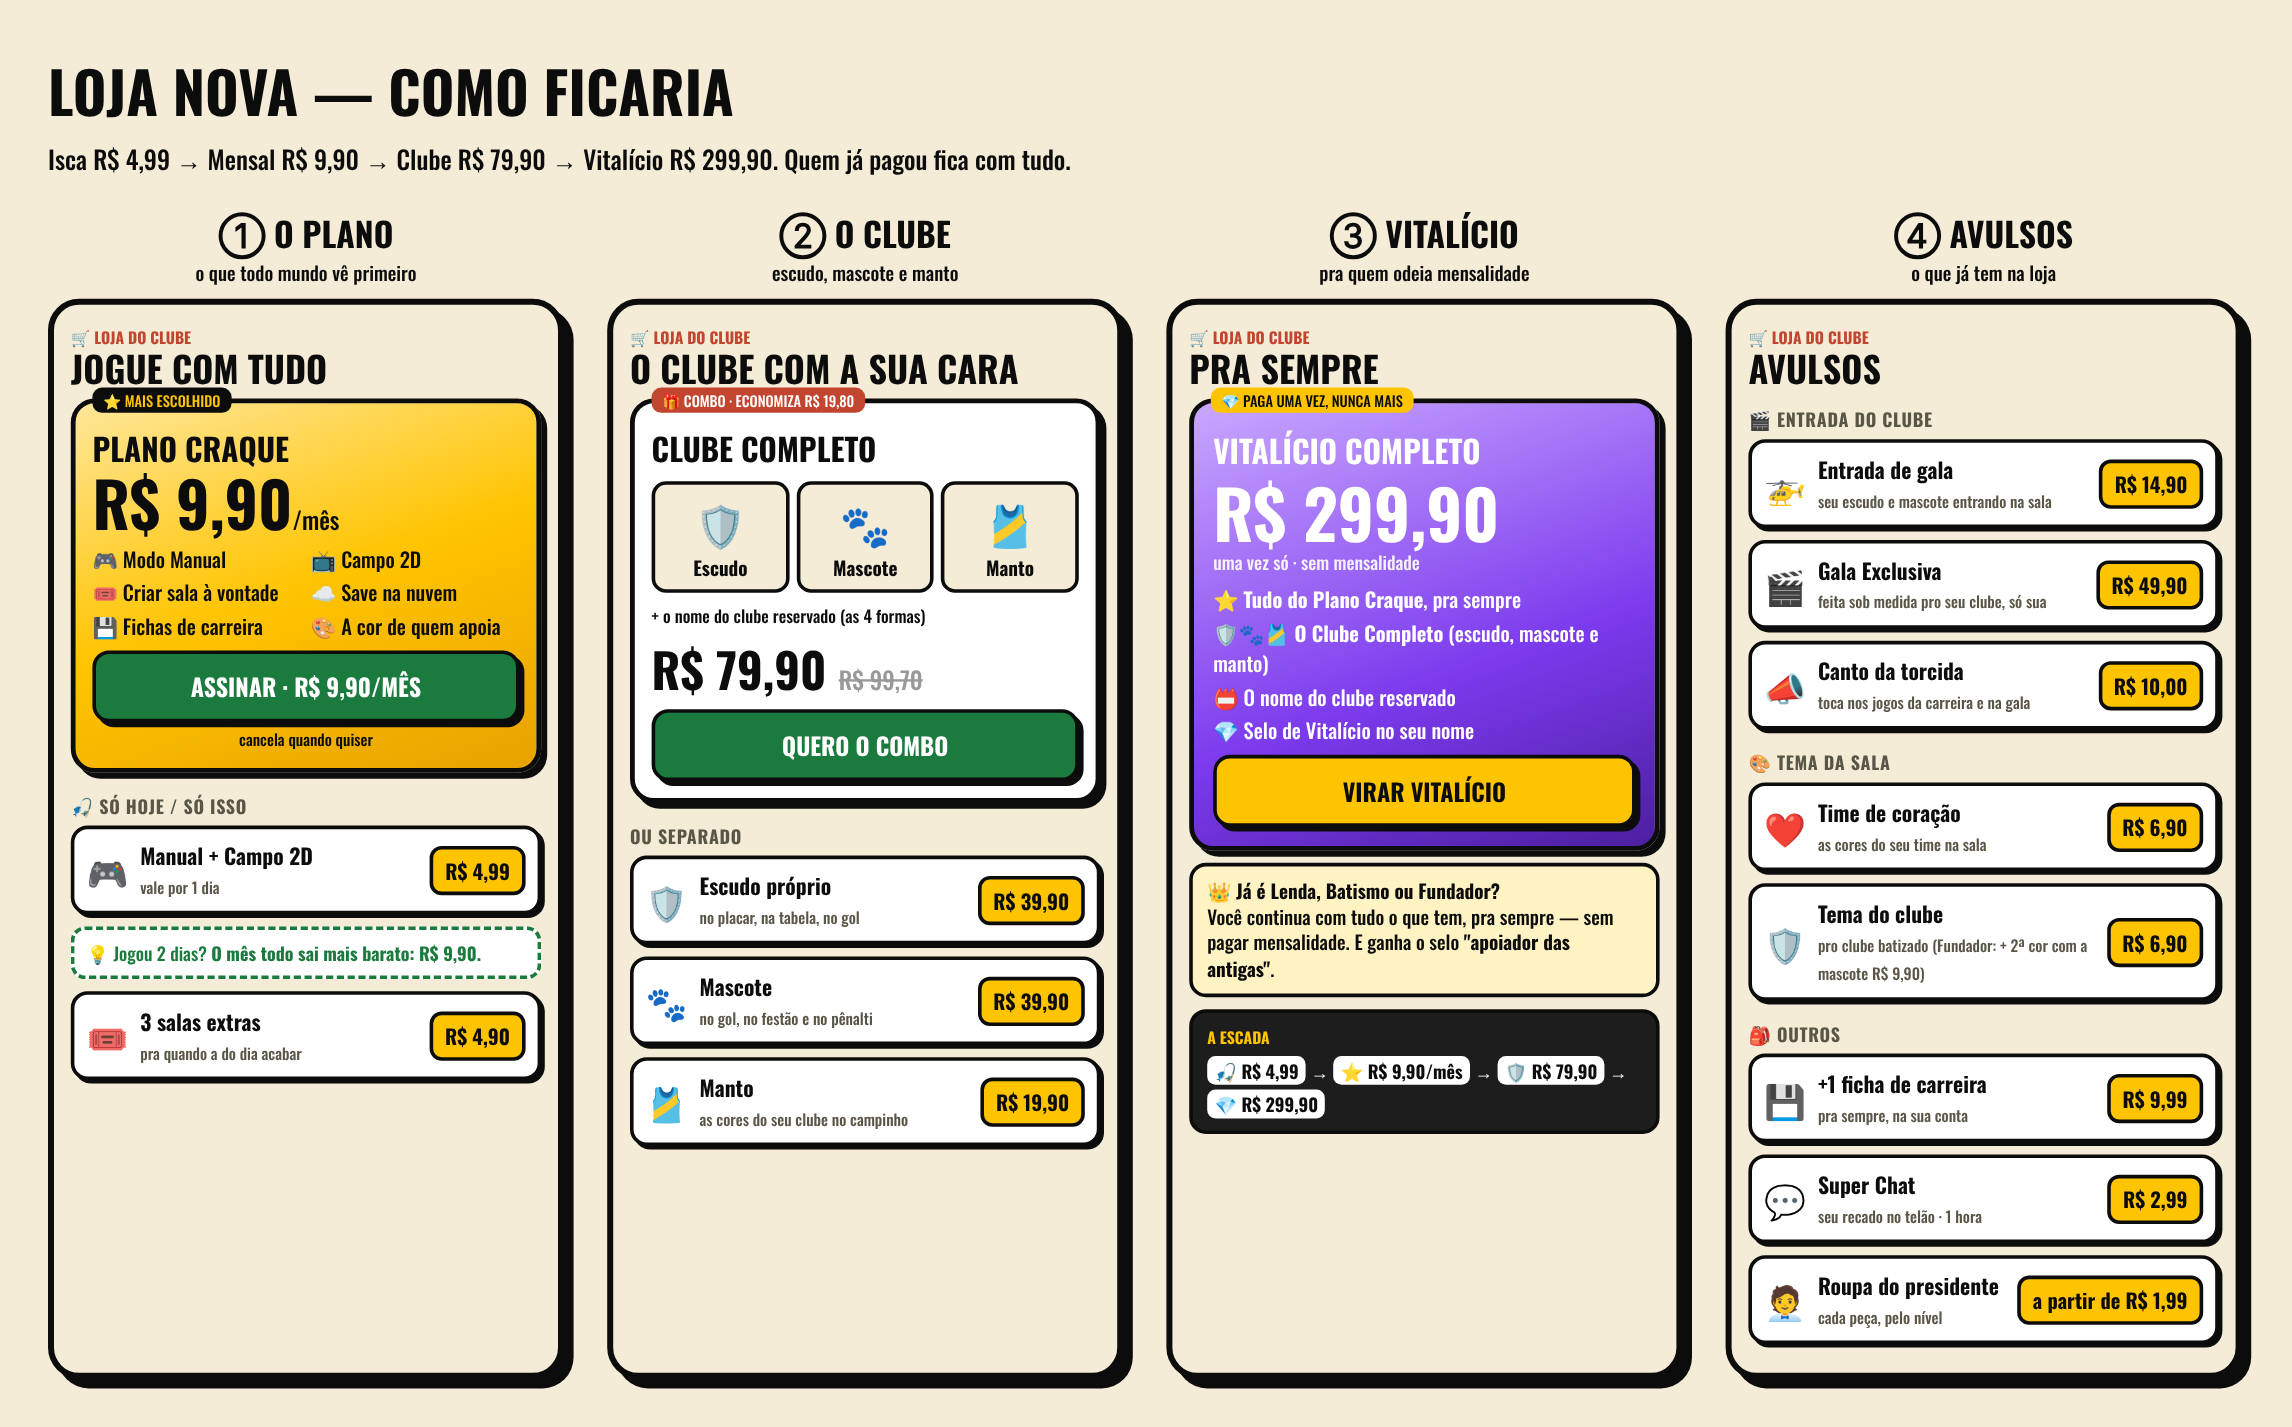
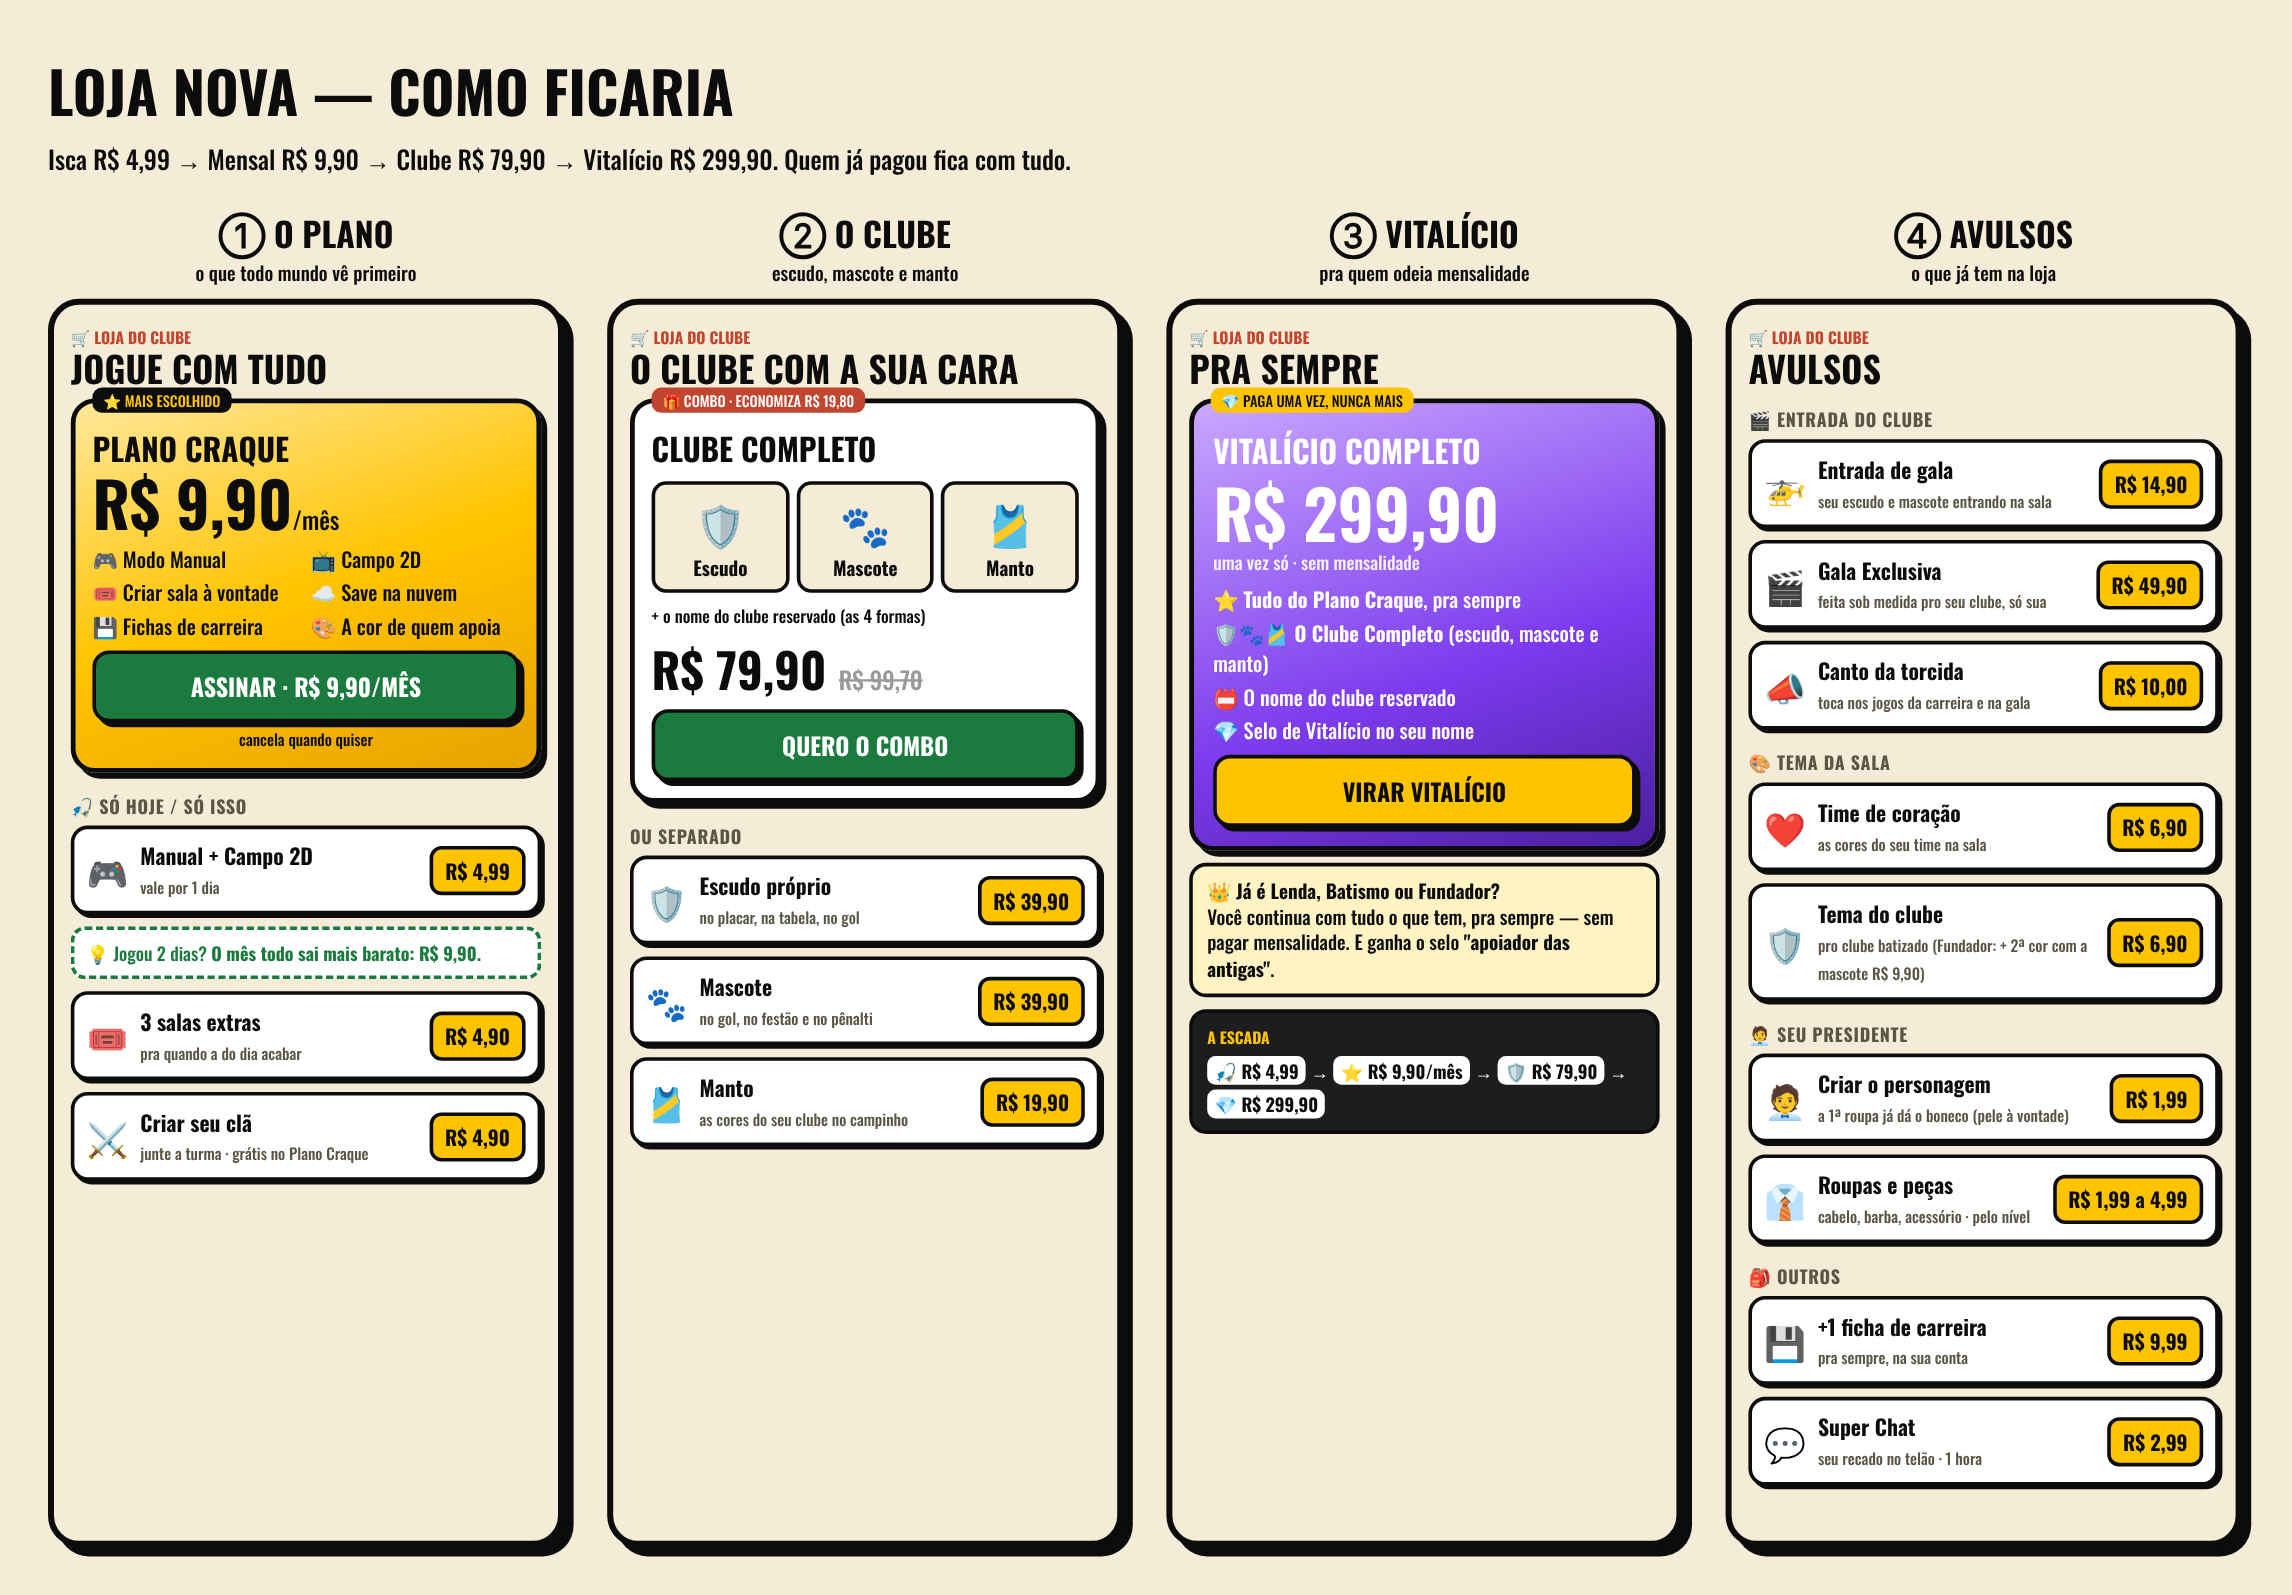
Mockup da loja nova: + criar clã (isca) e o presidente (personagem e peças)
Claude-Session: https://claude.ai/code/session_012GPrTDbpvrApA6DArkzCpE

diff --git a/docs/pendencias.md b/docs/pendencias.md
@@ -10841,7 +10841,7 @@ Escada que está saindo da conversa (ele ainda vai fechar o valor do vitalício)
 1. 🎣 Iscas: **Manual + Campo 2D por 1 dia R$ 4,99** (*"por um dia 4.99"*) · **3 salas extras R$ 4,90**. Ficha de carreira NÃO é isca
    (*"ficha não é isca"*) — volta pros avulsos.
 2. ⭐ **Mensal R$ 9,90** = jogo todo liberado (Manual, 2D, salas à vontade, nuvem, fichas). Na tela da isca: "2 dias já pagam o mês".
-3. 🛒 Avulsos (25/10, ele cobrou os que já existem): **entrada de gala R$ 14,90** · **Gala Exclusiva (sob medida) R$ 49,90** — hoje a gala única NÃO é vendida avulsa (só no Fundador); vender muda essa regra, ⏳ ele confirmar · **canto da torcida R$ 10** · tema da sala (coração R$ 6,90 · clube R$ 6,90 · Fundador R$ 9,90) · ficha R$ 9,99 · Super Chat R$ 2,99 · roupa do presidente a partir de R$ 1,99. Preços de gala são PROPOSTA minha.
+3. 🛒 Avulsos (25/10, ele cobrou os que já existem): **entrada de gala R$ 14,90** · **Gala Exclusiva (sob medida) R$ 49,90** — hoje a gala única NÃO é vendida avulsa (só no Fundador); vender muda essa regra, ⏳ ele confirmar · **canto da torcida R$ 10** · tema da sala (coração R$ 6,90 · clube R$ 6,90 · Fundador R$ 9,90) · ficha R$ 9,99 · Super Chat R$ 2,99 · **presidente: criar o personagem = 1ª roupa R$ 1,99 (já dá o boneco), roupas/peças R$ 1,99–4,99 pelo nível** (regra de 19/10). Iscas ganharam **⚔ criar clã R$ 4,90 (grátis no Craque)** — como já é hoje. Preços de gala são PROPOSTA minha.
 4. 🛡 Clube: escudo R$ 39,90 · mascote R$ 39,90 · manto R$ 19,90 · **combo R$ 79,90** (ele achou os primeiros valores baratos).
 5. 💎 **Vitalício completo** (tudo pra sempre + combo do clube): ele quer BEM caro (*"senão não paga mais mensal"*); **R$ 299,90 (confirmado 25/10: *"sim 299"*)**. Mockup `scripts/mockups/loja-planos-novos.png`. ⏳ Espera OK do visual antes de codar.
 ⚠ Quem já pagou Lenda/Batismo/Fundador fica com tudo pra sempre (regra "planos novos não mexem em quem já paga").
